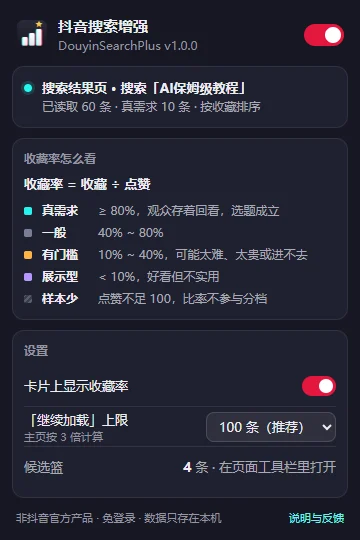
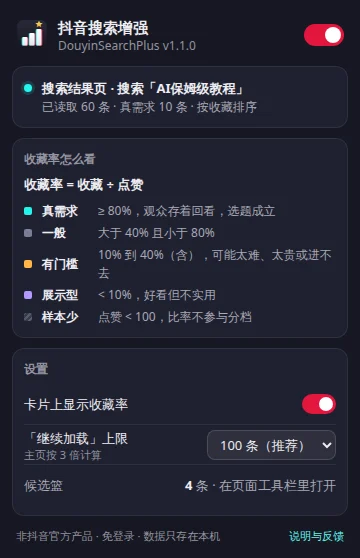
发布 v1.1.0，让本机 1.0.0 能看到更新提示
已合并的筛选、评论和更新提示一直记在 Unreleased，清单版本仍是 1.0.0，弹窗对得上号就不会提示。升到 1.1.0 后，旧版本地插件打开弹窗会提示重新下载。

diff --git a/scripts/screenshots.js b/scripts/screenshots.js
@@ -7,6 +7,7 @@ const { pathToFileURL } = require('url');
 const { launch, urls } = require('../test/sim/launch');
 const { saveWebp } = require('./webp');
 
+const manifest = JSON.parse(fs.readFileSync(path.join(__dirname, '..', 'manifest.json'), 'utf8'));
 const OUT = path.resolve(process.argv[2] || path.join(__dirname, '..', 'docs', 'screenshots'));
 const ONLY = process.argv[3] || '';
 const W = Number(process.argv[4] || 1600), H = Number(process.argv[5] || 900);
@@ -120,10 +121,10 @@ const scenes = {
   async popup(page) {
     // 弹窗页是扩展内页面；这里用 file:// 打开并注入 chrome API 替身，只用于截图
     await page.setViewportSize({ width: 360, height: 640 });
-    await page.addInitScript(() => {
+    await page.addInitScript((version) => {
       const store = { 'dsp.settings': { enabled: true, badges: true, loadCap: 100 }, 'dsp.candidates': [1, 2, 3, 4] };
       window.chrome = {
-        runtime: { getManifest: () => ({ version: '1.0.0' }) },
+        runtime: { getManifest: () => ({ version }) },
         storage: { local: { get: async (k) => (typeof k === 'string' ? { [k]: store[k] } : store), set: async (o) => Object.assign(store, o) } },
         tabs: {
           query: async () => [{ id: 1, url: 'https://www.douyin.com/search/AI' }],
@@ -131,7 +132,7 @@ const scenes = {
           create: () => {}, reload: () => {},
         },
       };
-    });
+    }, manifest.version);
     await page.goto(pathToFileURL(path.join(__dirname, '..', 'src', 'popup', 'popup.html')).href);
     await page.waitForTimeout(400);
     const h = await page.evaluate(() => document.body.scrollHeight);

diff --git a/CHANGELOG.md b/CHANGELOG.md
@@ -1,6 +1,6 @@
 # 更新日志
 
-## Unreleased
+## v1.1.0（2026-11）
 
 - 弹窗打开时对照 GitHub 主分支的版本号，更高则提示重新下载后在扩展管理页点刷新
 - 排序面板分成基础筛选（点赞、评论、收藏、视频时长，可切换方向）和进阶筛选（原有看法和自定义组合排序）。搜索页和博主主页相同。按时长排序时，图文和没有时长的沉在最后，倒序也不翻上去

diff --git a/README.md b/README.md
@@ -10,7 +10,7 @@
 
 免登录 · 数据只在本机 · Chrome / Edge 加载已解压扩展
 
-v1.0.0 · MIT
+v1.1.0 · MIT
 
 </div>
 
